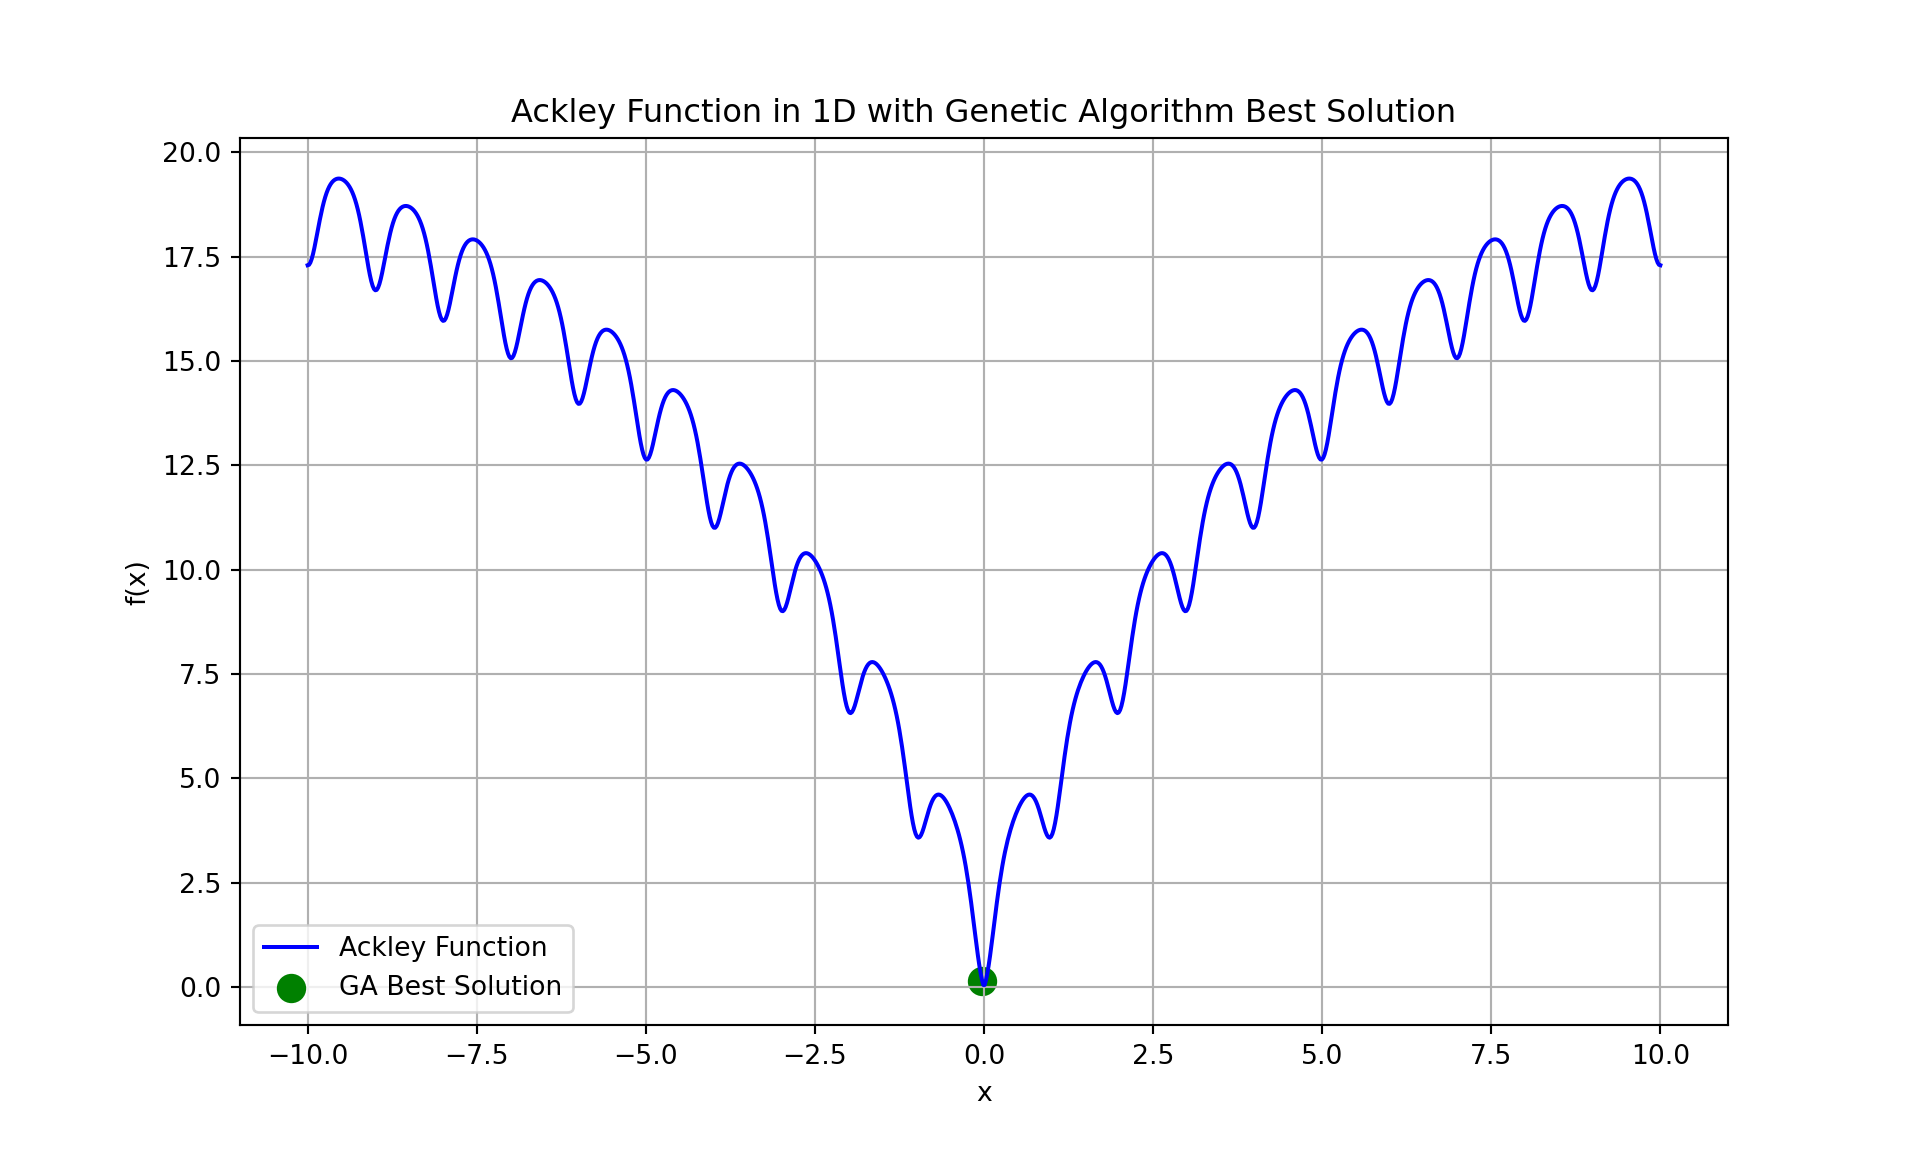
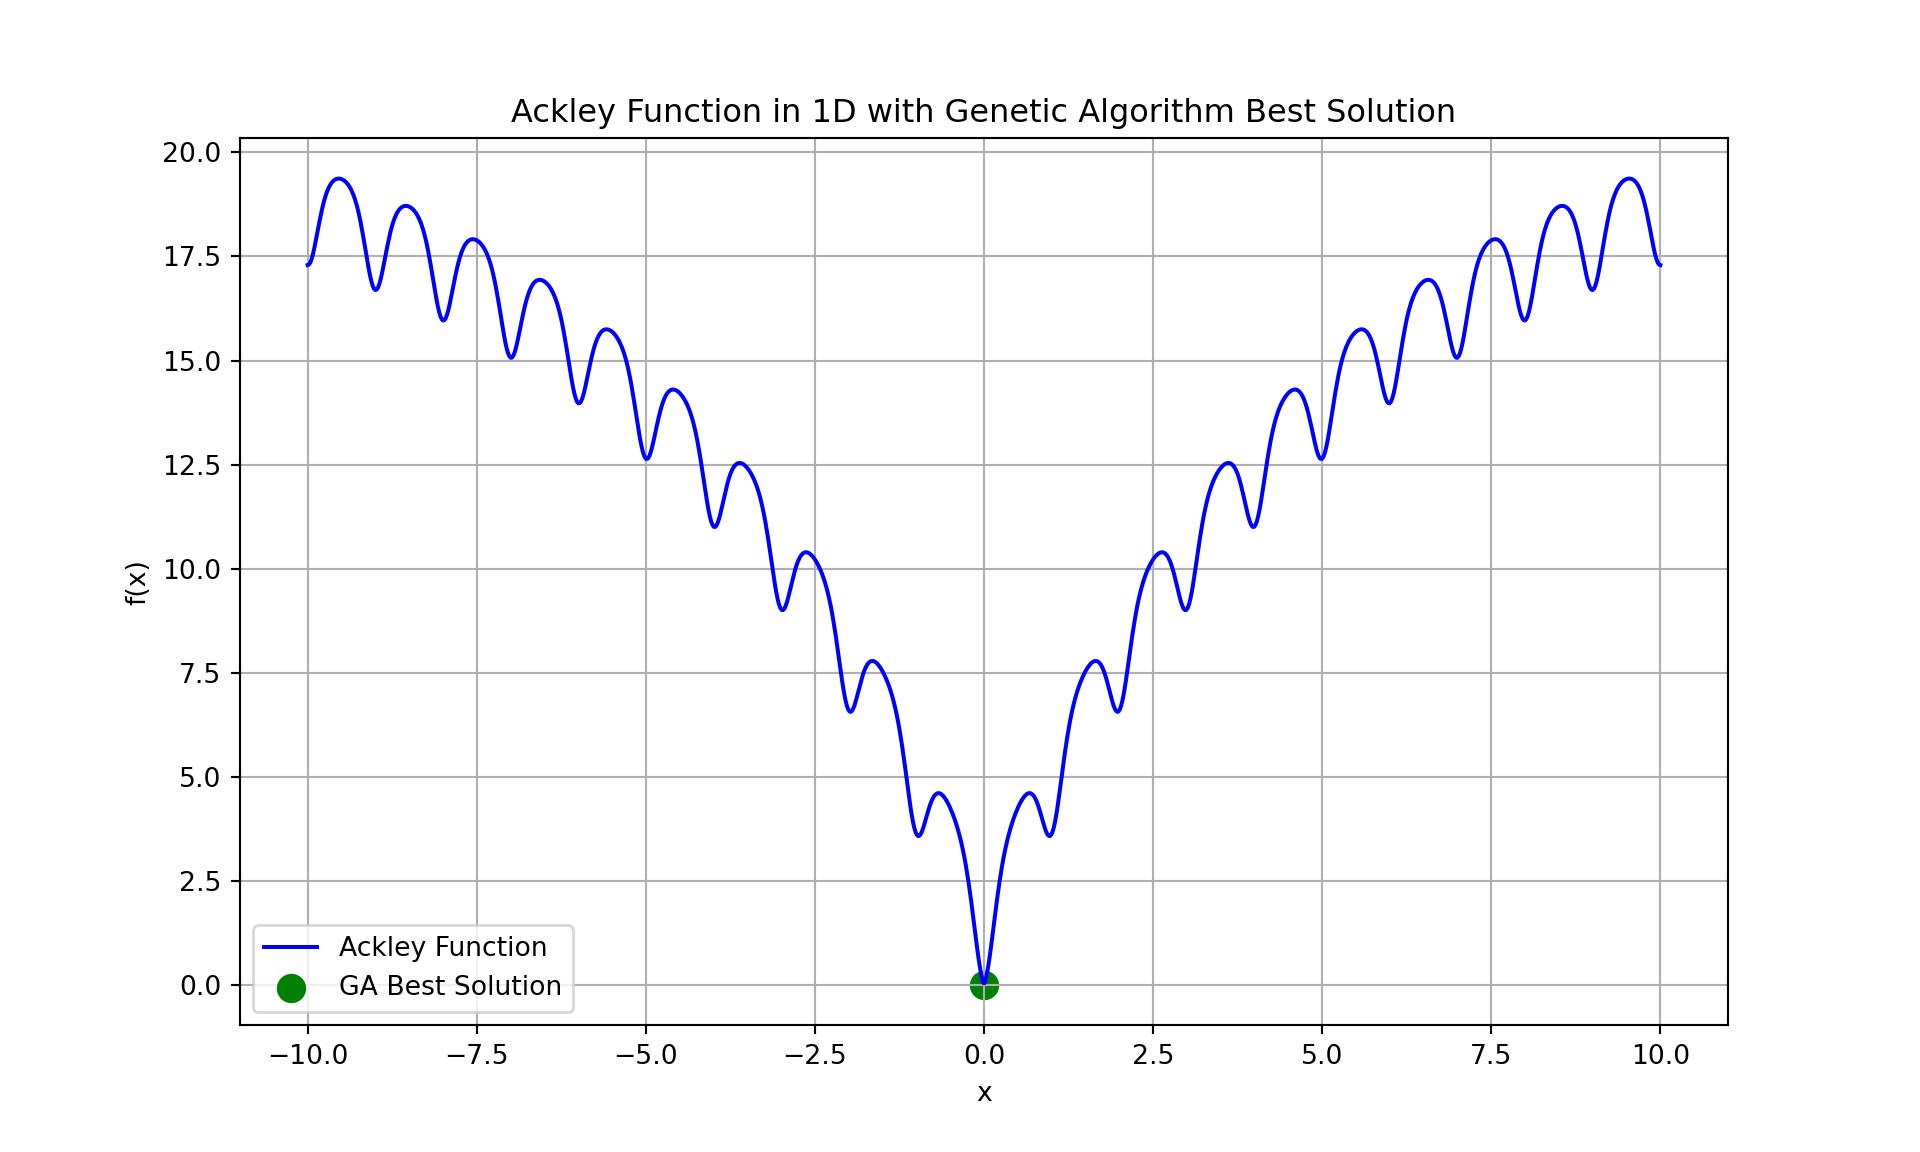
update GA

diff --git a/docs/ga.html b/docs/ga.html
@@ -958,7 +958,7 @@ window.Quarto = {
 </div>
 <div class="sourceCode cell-code" id="cb14"><pre class="sourceCode python code-with-copy"><code class="sourceCode python"><span id="cb14-1"><a href="#cb14-1" aria-hidden="true" tabindex="-1"></a><span class="bu">print</span>(<span class="ss">f"Execution time: </span><span class="sc">{</span>execution_time<span class="sc">:.6f}</span><span class="ss"> seconds"</span>)</span></code><button title="Copy to Clipboard" class="code-copy-button"><i class="bi"></i></button></pre></div>
 <div class="cell-output cell-output-stdout">
-<pre><code>Execution time: 0.103319 seconds</code></pre>
+<pre><code>Execution time: 0.272239 seconds</code></pre>
 </div>
 <div class="sourceCode cell-code" id="cb16"><pre class="sourceCode python code-with-copy"><code class="sourceCode python"><span id="cb16-1"><a href="#cb16-1" aria-hidden="true" tabindex="-1"></a><span class="co"># Plot the progress of the genetic algorithm</span></span>
 <span id="cb16-2"><a href="#cb16-2" aria-hidden="true" tabindex="-1"></a>plt.figure(figsize<span class="op">=</span>(<span class="dv">10</span>, <span class="dv">6</span>))</span>
@@ -1092,41 +1092,55 @@ window.Quarto = {
 <h2 class="anchored" data-anchor-id="transition-t-crossover-function">Transition (T): Crossover Function</h2>
 <ul>
 <li><p>In genetic algorithms, the transition function refers to the combined operations of crossover and mutation that generate a new population (offspring) from the current population. The transition function first applies crossover to exchange genetic material between selected parent solutions, creating new offspring, and then applies mutation to introduce small random changes in the offspring, maintaining diversity and enabling exploration of the solution space. This ensures a balance between exploitation of good solutions (via crossover) and exploration of new solutions (via mutation).</p></li>
-<li><p>Crossover: Pairs of solutions from the selected population are combined to create new offspring by mixing parts of the parent solutions.</p></li>
-<li><p>A new population (new_pop) is initialized as a copy of the current population (pop). The loop iterates over the population in pairs. For each pair, a random number is generated using np.random.rand(). If this number is less than the crossover_rate, crossover occurs:</p>
+<li><p>Because the Ackley problem uses <strong>real-valued</strong> solutions (continuous numbers between -10 and 10) rather than binary bit strings, we use <strong>arithmetic (blend) crossover</strong> instead of the single-point crossover used in the One-Max problem.</p></li>
+<li><p>Arithmetic crossover works by blending the two parent values using a random mixing factor <span class="math inline">\(\alpha \in [0, 1]\)</span>:</p>
 <ul>
-<li><p>A crossover point is chosen randomly (here, using np.random.randint(0, pop.shape[1]), which specifies where the two parent solutions will exchange segments. The segments of the two parent solutions from the crossover point onward are swapped, creating two new offspring solutions.</p></li>
-<li><p>If the random number is greater than the crossover_rate, no crossover occurs, and the parent solutions remain unchanged. The function returns the new_pop containing the modified population after applying the crossover operation.</p></li>
+<li><span class="math inline">\(\text{child}_1 = \alpha \cdot \text{parent}_1 + (1 - \alpha) \cdot \text{parent}_2\)</span></li>
+<li><span class="math inline">\(\text{child}_2 = \alpha \cdot \text{parent}_2 + (1 - \alpha) \cdot \text{parent}_1\)</span></li>
+</ul></li>
+<li><p><span class="math inline">\(\alpha\)</span> is drawn uniformly from <span class="math inline">\([0, 1]\)</span> for each pair, so offspring always lie between the two parents. This is appropriate for continuous solution spaces because it smoothly blends parental values rather than swapping discrete chunks.</p></li>
+<li><p>The loop iterates over the population in pairs. For each pair, if a random number is less than the <code>crossover_rate</code>, crossover occurs using the blending formula. Otherwise, the parents pass through unchanged. The function returns the new population after crossover.</p></li>
 </ul>
 <div class="cell">
 <div class="sourceCode cell-code" id="cb22"><pre class="sourceCode python code-with-copy"><code class="sourceCode python"><span id="cb22-1"><a href="#cb22-1" aria-hidden="true" tabindex="-1"></a><span class="co"># Transition function (T): Crossover and Mutation</span></span>
-<span id="cb22-2"><a href="#cb22-2" aria-hidden="true" tabindex="-1"></a><span class="co"># Crossover function (T)</span></span>
-<span id="cb22-3"><a href="#cb22-3" aria-hidden="true" tabindex="-1"></a><span class="kw">def</span> crossover(pop, crossover_rate):</span>
-<span id="cb22-4"><a href="#cb22-4" aria-hidden="true" tabindex="-1"></a>    new_pop <span class="op">=</span> pop.copy()</span>
-<span id="cb22-5"><a href="#cb22-5" aria-hidden="true" tabindex="-1"></a>    <span class="cf">for</span> i <span class="kw">in</span> <span class="bu">range</span>(<span class="dv">0</span>, <span class="bu">len</span>(pop) <span class="op">-</span> <span class="dv">1</span>, <span class="dv">2</span>):</span>
-<span id="cb22-6"><a href="#cb22-6" aria-hidden="true" tabindex="-1"></a>        <span class="cf">if</span> np.random.rand() <span class="op">&lt;</span> crossover_rate:</span>
-<span id="cb22-7"><a href="#cb22-7" aria-hidden="true" tabindex="-1"></a>            crossover_point <span class="op">=</span> np.random.randint(<span class="dv">0</span>, pop.shape[<span class="dv">1</span>])</span>
-<span id="cb22-8"><a href="#cb22-8" aria-hidden="true" tabindex="-1"></a>            new_pop[i, crossover_point:], new_pop[i <span class="op">+</span> <span class="dv">1</span>, crossover_point:] <span class="op">=</span> (</span>
-<span id="cb22-9"><a href="#cb22-9" aria-hidden="true" tabindex="-1"></a>                pop[i <span class="op">+</span> <span class="dv">1</span>, crossover_point:], </span>
-<span id="cb22-10"><a href="#cb22-10" aria-hidden="true" tabindex="-1"></a>                pop[i, crossover_point:]</span>
-<span id="cb22-11"><a href="#cb22-11" aria-hidden="true" tabindex="-1"></a>            )</span>
-<span id="cb22-12"><a href="#cb22-12" aria-hidden="true" tabindex="-1"></a>    <span class="cf">return</span> new_pop</span></code><button title="Copy to Clipboard" class="code-copy-button"><i class="bi"></i></button></pre></div>
-</div></li>
-</ul>
+<span id="cb22-2"><a href="#cb22-2" aria-hidden="true" tabindex="-1"></a><span class="co"># Uses arithmetic (blend) crossover for real-valued solutions. It creates two offspring</span></span>
+<span id="cb22-3"><a href="#cb22-3" aria-hidden="true" tabindex="-1"></a><span class="co"># by blending the parent solutions based on a random factor alpha.</span></span>
+<span id="cb22-4"><a href="#cb22-4" aria-hidden="true" tabindex="-1"></a><span class="kw">def</span> crossover(population, crossover_rate):</span>
+<span id="cb22-5"><a href="#cb22-5" aria-hidden="true" tabindex="-1"></a>    new_population <span class="op">=</span> population.copy()</span>
+<span id="cb22-6"><a href="#cb22-6" aria-hidden="true" tabindex="-1"></a>    <span class="cf">for</span> i <span class="kw">in</span> <span class="bu">range</span>(<span class="dv">0</span>, <span class="bu">len</span>(population) <span class="op">-</span> <span class="dv">1</span>, <span class="dv">2</span>):</span>
+<span id="cb22-7"><a href="#cb22-7" aria-hidden="true" tabindex="-1"></a>        <span class="cf">if</span> random.random() <span class="op">&lt;</span> crossover_rate:</span>
+<span id="cb22-8"><a href="#cb22-8" aria-hidden="true" tabindex="-1"></a>            alpha <span class="op">=</span> np.random.rand()</span>
+<span id="cb22-9"><a href="#cb22-9" aria-hidden="true" tabindex="-1"></a>            parent1 <span class="op">=</span> population[i]</span>
+<span id="cb22-10"><a href="#cb22-10" aria-hidden="true" tabindex="-1"></a>            parent2 <span class="op">=</span> population[i <span class="op">+</span> <span class="dv">1</span>]</span>
+<span id="cb22-11"><a href="#cb22-11" aria-hidden="true" tabindex="-1"></a>            child1 <span class="op">=</span> alpha <span class="op">*</span> parent1 <span class="op">+</span> (<span class="dv">1</span> <span class="op">-</span> alpha) <span class="op">*</span> parent2</span>
+<span id="cb22-12"><a href="#cb22-12" aria-hidden="true" tabindex="-1"></a>            child2 <span class="op">=</span> alpha <span class="op">*</span> parent2 <span class="op">+</span> (<span class="dv">1</span> <span class="op">-</span> alpha) <span class="op">*</span> parent1</span>
+<span id="cb22-13"><a href="#cb22-13" aria-hidden="true" tabindex="-1"></a>            new_population[i] <span class="op">=</span> child1</span>
+<span id="cb22-14"><a href="#cb22-14" aria-hidden="true" tabindex="-1"></a>            new_population[i <span class="op">+</span> <span class="dv">1</span>] <span class="op">=</span> child2</span>
+<span id="cb22-15"><a href="#cb22-15" aria-hidden="true" tabindex="-1"></a>    <span class="cf">return</span> new_population</span></code><button title="Copy to Clipboard" class="code-copy-button"><i class="bi"></i></button></pre></div>
+</div>
 </section>
 <section id="transition-t-mutation-function" class="level2">
 <h2 class="anchored" data-anchor-id="transition-t-mutation-function">Transition (T): Mutation Function</h2>
 <ul>
-<li>Mutation: Random mutations are introduced in the offspring solutions to maintain diversity and avoid premature convergence.</li>
-<li>It introduces random changes to a population of solutions in a genetic algorithm. It iterates over each individual in the population (pop) and, with a probability specified by the mutation_rate, replaces the current individual with a new value randomly drawn from a uniform distribution between -10 and 10. This random alteration helps maintain diversity in the population, enabling the genetic algorithm to explore new areas of the solution space and avoid premature convergence. The modified population is returned at the end of the function. This introduces large jumps (not a small step size) since any value can be replaced.</li>
+<li><p>Mutation: Random mutations are introduced in the offspring solutions to maintain diversity and avoid premature convergence.</p></li>
+<li><p>Because we are working in a <strong>continuous</strong> solution space, we use <strong>Gaussian mutation</strong> rather than a random replacement. Each individual is mutated with a probability specified by <code>mutation_rate</code>. When mutation occurs, a small random value drawn from a normal distribution <span class="math inline">\(\mathcal{N}(0, \sigma)\)</span> is <strong>added</strong> to the current value:</p>
+<p><span class="math display">\[x_{\text{new}} = x_{\text{old}} + \mathcal{N}(0, \sigma)\]</span></p></li>
+<li><p>The parameter <span class="math inline">\(\sigma\)</span> (sigma) controls the <strong>step size</strong> — how far from the current value the mutation can move. A small <span class="math inline">\(\sigma\)</span> (e.g., 0.5) produces small perturbations, allowing fine-grained local exploration. A large <span class="math inline">\(\sigma\)</span> produces bigger jumps, allowing more exploration of the broader solution space. This is fundamentally different from the uniform random replacement used in some earlier versions, which could produce large, disruptive jumps regardless of where the current solution is. Gaussian mutation is gentler and more directed, nudging solutions in small steps rather than teleporting them.</p></li>
+<li><p>In the code below, <code>sigma=0.5</code> means mutations will typically shift the value by about ±0.5 units.</p></li>
 </ul>
 <div class="cell">
-<div class="sourceCode cell-code" id="cb23"><pre class="sourceCode python code-with-copy"><code class="sourceCode python"><span id="cb23-1"><a href="#cb23-1" aria-hidden="true" tabindex="-1"></a><span class="co"># Mutation function (M)</span></span>
-<span id="cb23-2"><a href="#cb23-2" aria-hidden="true" tabindex="-1"></a><span class="kw">def</span> mutation(pop, mutation_rate):</span>
-<span id="cb23-3"><a href="#cb23-3" aria-hidden="true" tabindex="-1"></a>    <span class="cf">for</span> i <span class="kw">in</span> <span class="bu">range</span>(<span class="bu">len</span>(pop)):</span>
-<span id="cb23-4"><a href="#cb23-4" aria-hidden="true" tabindex="-1"></a>        <span class="cf">if</span> np.random.rand() <span class="op">&lt;</span> mutation_rate:</span>
-<span id="cb23-5"><a href="#cb23-5" aria-hidden="true" tabindex="-1"></a>            pop[i] <span class="op">=</span> np.random.uniform(<span class="op">-</span><span class="dv">10</span>, <span class="dv">10</span>)</span>
-<span id="cb23-6"><a href="#cb23-6" aria-hidden="true" tabindex="-1"></a>    <span class="cf">return</span> pop</span></code><button title="Copy to Clipboard" class="code-copy-button"><i class="bi"></i></button></pre></div>
+<div class="sourceCode cell-code" id="cb23"><pre class="sourceCode python code-with-copy"><code class="sourceCode python"><span id="cb23-1"><a href="#cb23-1" aria-hidden="true" tabindex="-1"></a><span class="co"># Mutation function (T)</span></span>
+<span id="cb23-2"><a href="#cb23-2" aria-hidden="true" tabindex="-1"></a><span class="co"># Applies Gaussian mutation to the population. Each individual has a chance</span></span>
+<span id="cb23-3"><a href="#cb23-3" aria-hidden="true" tabindex="-1"></a><span class="co"># to be mutated based on the mutation_rate. If selected for mutation, a small</span></span>
+<span id="cb23-4"><a href="#cb23-4" aria-hidden="true" tabindex="-1"></a><span class="co"># random value drawn from a normal distribution N(0, sigma) is added to it,</span></span>
+<span id="cb23-5"><a href="#cb23-5" aria-hidden="true" tabindex="-1"></a><span class="co"># allowing for controlled exploration of the solution space.</span></span>
+<span id="cb23-6"><a href="#cb23-6" aria-hidden="true" tabindex="-1"></a><span class="co"># sigma is the standard deviation of the normal distribution, which controls</span></span>
+<span id="cb23-7"><a href="#cb23-7" aria-hidden="true" tabindex="-1"></a><span class="co"># the extent of the mutation step size.</span></span>
+<span id="cb23-8"><a href="#cb23-8" aria-hidden="true" tabindex="-1"></a><span class="kw">def</span> mutation(pop, mutation_rate, sigma<span class="op">=</span><span class="fl">0.5</span>):</span>
+<span id="cb23-9"><a href="#cb23-9" aria-hidden="true" tabindex="-1"></a>    <span class="cf">for</span> i <span class="kw">in</span> <span class="bu">range</span>(<span class="bu">len</span>(pop)):</span>
+<span id="cb23-10"><a href="#cb23-10" aria-hidden="true" tabindex="-1"></a>        <span class="cf">if</span> np.random.rand() <span class="op">&lt;</span> mutation_rate:</span>
+<span id="cb23-11"><a href="#cb23-11" aria-hidden="true" tabindex="-1"></a>            pop[i] <span class="op">+=</span> np.random.normal(<span class="dv">0</span>, sigma)</span>
+<span id="cb23-12"><a href="#cb23-12" aria-hidden="true" tabindex="-1"></a>    <span class="cf">return</span> pop</span></code><button title="Copy to Clipboard" class="code-copy-button"><i class="bi"></i></button></pre></div>
 </div>
 </section>
 <section id="main-loop" class="level2">
@@ -1147,7 +1161,7 @@ window.Quarto = {
 <span id="cb24-9"><a href="#cb24-9" aria-hidden="true" tabindex="-1"></a>        </span>
 <span id="cb24-10"><a href="#cb24-10" aria-hidden="true" tabindex="-1"></a>        selected_pop <span class="op">=</span> select(pop, obj_vals, num_players)</span>
 <span id="cb24-11"><a href="#cb24-11" aria-hidden="true" tabindex="-1"></a>        offspring_pop <span class="op">=</span> crossover(selected_pop, crossover_rate)</span>
-<span id="cb24-12"><a href="#cb24-12" aria-hidden="true" tabindex="-1"></a>        mutated_pop <span class="op">=</span> mutation(offspring_pop, mutation_rate)</span>
+<span id="cb24-12"><a href="#cb24-12" aria-hidden="true" tabindex="-1"></a>        mutated_pop <span class="op">=</span> mutation(offspring_pop, mutation_rate, sigma<span class="op">=</span><span class="fl">0.5</span>)</span>
 <span id="cb24-13"><a href="#cb24-13" aria-hidden="true" tabindex="-1"></a>        </span>
 <span id="cb24-14"><a href="#cb24-14" aria-hidden="true" tabindex="-1"></a>        pop <span class="op">=</span> mutated_pop  </span>
 <span id="cb24-15"><a href="#cb24-15" aria-hidden="true" tabindex="-1"></a>    <span class="cf">return</span> best_sol, best_obj_val</span></code><button title="Copy to Clipboard" class="code-copy-button"><i class="bi"></i></button></pre></div>
@@ -1169,15 +1183,15 @@ window.Quarto = {
 <div class="sourceCode cell-code" id="cb26"><pre class="sourceCode python code-with-copy"><code class="sourceCode python"><span id="cb26-1"><a href="#cb26-1" aria-hidden="true" tabindex="-1"></a><span class="co"># Output (O)</span></span>
 <span id="cb26-2"><a href="#cb26-2" aria-hidden="true" tabindex="-1"></a><span class="bu">print</span>(<span class="ss">f"Optimal solution: </span><span class="sc">{</span>best_solution<span class="sc">}</span><span class="ss">"</span>)</span></code><button title="Copy to Clipboard" class="code-copy-button"><i class="bi"></i></button></pre></div>
 <div class="cell-output cell-output-stdout">
-<pre><code>Optimal solution: [-0.0274587]</code></pre>
+<pre><code>Optimal solution: [-2.1197584e-16]</code></pre>
 </div>
 <div class="sourceCode cell-code" id="cb28"><pre class="sourceCode python code-with-copy"><code class="sourceCode python"><span id="cb28-1"><a href="#cb28-1" aria-hidden="true" tabindex="-1"></a><span class="bu">print</span>(<span class="ss">f"Optimal value: </span><span class="sc">{</span>best_value<span class="sc">}</span><span class="ss">"</span>)</span></code><button title="Copy to Clipboard" class="code-copy-button"><i class="bi"></i></button></pre></div>
 <div class="cell-output cell-output-stdout">
-<pre><code>Optimal value: 0.149591547125429</code></pre>
+<pre><code>Optimal value: 4.440892098500626e-16</code></pre>
 </div>
 <div class="sourceCode cell-code" id="cb30"><pre class="sourceCode python code-with-copy"><code class="sourceCode python"><span id="cb30-1"><a href="#cb30-1" aria-hidden="true" tabindex="-1"></a><span class="bu">print</span>(<span class="ss">f"Execution time for Genetic Algorithm: </span><span class="sc">{</span>execution_time<span class="sc">:.6f}</span><span class="ss"> seconds"</span>)</span></code><button title="Copy to Clipboard" class="code-copy-button"><i class="bi"></i></button></pre></div>
 <div class="cell-output cell-output-stdout">
-<pre><code>Execution time for Genetic Algorithm: 0.120327 seconds</code></pre>
+<pre><code>Execution time for Genetic Algorithm: 0.120395 seconds</code></pre>
 </div>
 <div class="sourceCode cell-code" id="cb32"><pre class="sourceCode python code-with-copy"><code class="sourceCode python"><span id="cb32-1"><a href="#cb32-1" aria-hidden="true" tabindex="-1"></a><span class="co"># Plot the Ackley function and genetic algorithm progress</span></span>
 <span id="cb32-2"><a href="#cb32-2" aria-hidden="true" tabindex="-1"></a>x_values <span class="op">=</span> np.linspace(<span class="op">-</span><span class="dv">10</span>, <span class="dv">10</span>, <span class="dv">1000</span>)</span>
